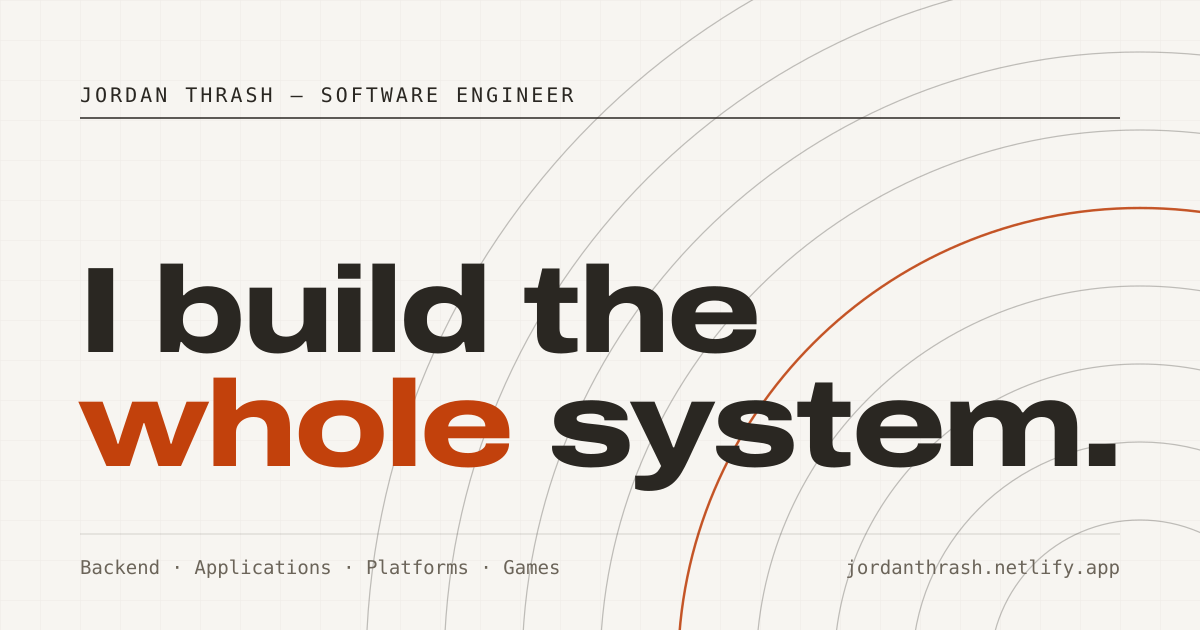
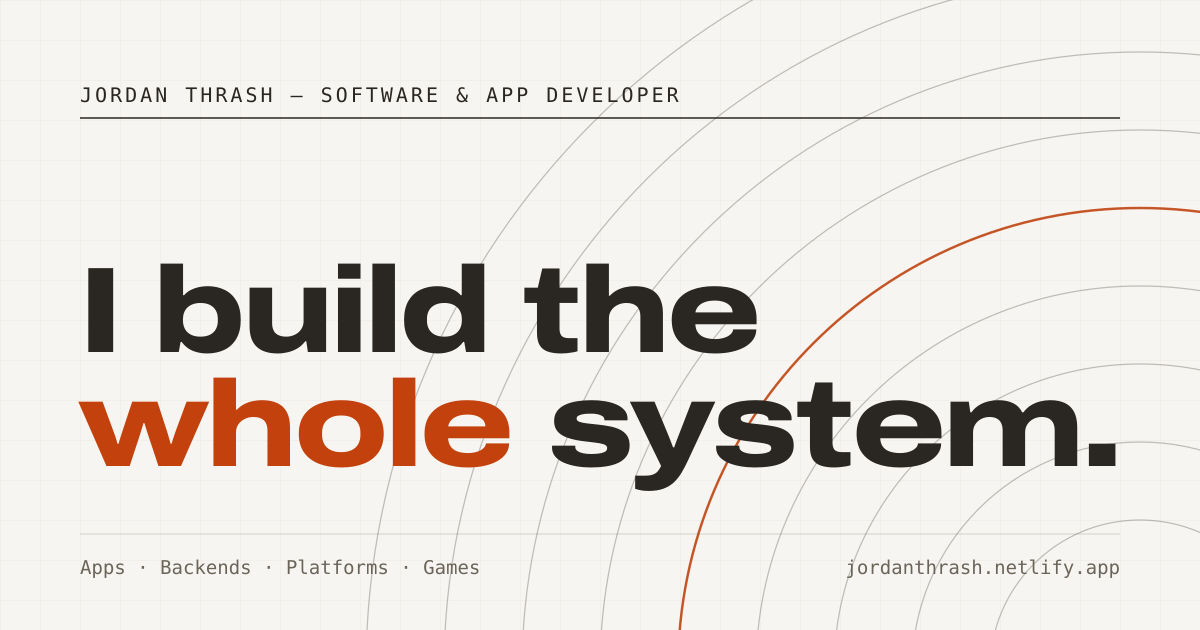
Lead with what gets built, not with a job title
Correcting an overcorrection: swapping "Game Developer" for "Software
Engineer" just traded one narrow frame for another, and the copy had
drifted into reading like a backend engineer's CV.

- Hero lede now opens "Apps, backends, platforms, games" instead of with
  a job label, and no longer treats games as something that had to be
  explained away.
- About rewritten around range as the point: four kinds of work presented
  as facets of the same practice, with games framed as where the systems
  instincts got sharp rather than as a phase.
- Skills reordered and regrouped — Applications / Services & data /
  Platform & tooling / Games & real-time — so nothing leads.
- Role is "Software & App Developer"; section 02 is "What I build".
- Contact pitch broadened past engineering work.
- README documents the two rules that keep this stable: do not lead with
  a label, do not apologise for the games.

Also fixed: the `&` in the new role broke the OG card's raw SVG. Text
nodes are escaped now, so copy containing &, < or " no longer fails the
rasteriser.

Claude-Session: https://claude.ai/code/session_01FqVhWkxSWnaqhkKCUJZE53

Changed region(s): [[0.0617, 0.8746, 0.4008, 0.9349], [0.37, 0.1206, 0.555, 0.181], [0.4317, 0.8746, 0.4625, 0.9349]]

diff --git a/src/data/site.ts b/src/data/site.ts
@@ -10,14 +10,18 @@
 
 export const site = {
   name: 'Jordan Thrash',
-  /** Shown beside the name in the header and used in structured data. */
-  role: 'Software Engineer',
+  /**
+   * Shown beside the name in the header and used in structured data. Kept
+   * deliberately broad — the work spans apps, services, platforms and games,
+   * and a narrower title undersells it in both directions.
+   */
+  role: 'Software & App Developer',
   /** @verify — city shown in the footer. Set to null to hide it. */
   location: 'United States',
   url: 'https://jordanthrash.netlify.app',
 
   description:
-    'Software engineer and app developer. Backends, applications, platforms and games — built end to end.',
+    'I build apps, backends, platforms and games — end to end. Software and app developer.',
 } as const;
 
 /**
@@ -28,8 +32,8 @@ export const site = {
 export const hero = {
   headline: ['I build the', '<em>whole</em> system.'],
   /** Running metadata in the masthead rule. Keep it terse and factual. */
-  spec: 'Backend · Applications · Platforms · Games',
-  lede: 'Software engineer and app developer. I build backends, applications and the infrastructure underneath them — and I got here through game development, which is still where much of the index below comes from.',
+  spec: 'Apps · Backends · Platforms · Games',
+  lede: 'Apps, backends, platforms, games. Some of it professionally, some of it because I wanted the thing to exist — and in every case I would rather own the whole system than one layer of it.',
 } as const;
 
 /**
@@ -38,9 +42,9 @@ export const hero = {
  */
 export const about = {
   paragraphs: [
-    'I build software end to end — the services, the data models, the interface on top and the infrastructure holding it up. What I care about is whether a system stays correct and stays fast once real usage arrives, which is usually decided long before anyone sees a screen.',
-    'Professionally that means backend engineering: APIs, data models, and the unglamorous parts that decide whether a product feels solid or feels broken. Alongside that I design and ship applications on my own, where I own the whole stack rather than a slice of it — which is the part that keeps me honest about what shipping actually costs.',
-    'I started in game development, and it is still the fastest way I know to learn a system properly. A game leaves nowhere to hide: the physics either resolves, the netcode either stays in sync, the generator either produces something worth playing. Most of the index below came out of that, and the habits transfer directly to everything else I build.',
+    'I build things end to end. Whatever the project needs — the service, the data model, the interface, the infrastructure underneath — I would rather own the whole shape of it than one layer. That holds whether it is a production backend, an app someone uses every day, or a game I made because I wanted it to exist.',
+    'The range is wide on purpose. Services and the data behind them, applications people actually use, the deployment and tooling around both, and games where every system has to hold up in real time. Different constraints, same job each time: work out what the thing has to guarantee, then make it do that when real usage arrives.',
+    'Games are where a lot of this got sharp. They leave nowhere to hide — the physics resolves or it does not, the netcode stays in sync or it does not, the generator produces something worth playing or it does not. Most of the index below came out of that, and the same instincts carry straight into everything else I build.',
   ],
   /**
    * @verify — grouped so the section reads as capability areas rather than a
@@ -48,19 +52,19 @@ export const about = {
    */
   stack: [
     {
-      area: 'Backend',
-      items: ['Python', 'TypeScript / Node', 'PostgreSQL', 'REST & GraphQL APIs', 'Data pipelines'],
-    },
-    {
       area: 'Applications',
-      items: ['React', 'Astro', 'TypeScript', 'Responsive UI', 'Accessibility'],
+      items: ['TypeScript', 'React', 'Astro', 'Responsive UI', 'Accessibility'],
     },
     {
-      area: 'Platform',
+      area: 'Services & data',
+      items: ['Python', 'Node', 'PostgreSQL', 'REST & GraphQL APIs', 'Data pipelines'],
+    },
+    {
+      area: 'Platform & tooling',
       items: ['Docker', 'CI / CD', 'Cloud deployment', 'Observability', 'Performance'],
     },
     {
-      area: 'Games',
+      area: 'Games & real-time',
       items: [
         'Unity',
         'C#',
@@ -88,12 +92,12 @@ export const experience = [
     tags: ['Python', 'PostgreSQL', 'APIs'],
   },
   {
-    role: 'Independent Software Engineer',
+    role: 'Independent Developer',
     company: 'Client & product work',
     start: '2021',
     end: null,
     summary:
-      'Applications, sites and backends built end to end for small businesses and my own products.',
+      'Apps, sites and the backends behind them, built end to end for small businesses and for my own products.',
     tags: ['TypeScript', 'React', 'Python', 'Netlify'],
   },
   {
@@ -123,7 +127,7 @@ export const education = [
 export const contact = {
   email: 'thrashstores@gmail.com',
   /** Headline for the contact section. */
-  pitch: 'Open to engineering work, product builds and interesting systems problems.',
+  pitch: 'Open to product work, contract builds, and anything with an interesting system in it.',
   links: [
     {
       label: 'GitHub',

diff --git a/README.md b/README.md
@@ -66,15 +66,21 @@ and **Splittle** (from your public write-up).
 
 ### On positioning
 
-The site frames you as a software engineer and app developer whose range covers
-backends, applications, platforms and games — not as a game developer. The old
-Weebly site said "Game Developer" throughout; that framing is gone deliberately.
+The copy leads with **what gets built**, not with a job title. Apps, backends,
+platforms and games are named as four facets of the same practice, in that
+order, and no one of them is the identity. That is deliberate in both
+directions — the old Weebly site said "Game Developer" throughout, and framing
+it purely as backend engineering undersells the range just as badly.
 
-The index is still mostly games, because that is what has shipped so far. The
-copy handles this honestly rather than pretending otherwise: the hero and the
-About section present game development as where the systems habits came from,
-not as the ceiling. As you add backend and application projects the balance
-corrects itself and none of that copy needs to change.
+Two rules if you rewrite any of this:
+
+- **Do not lead with a label.** "Apps, backends, platforms, games" beats
+  "Software engineer who…". The title in `site.role` exists for the header and
+  structured data; the body copy should not repeat it.
+- **Do not apologise for the games.** They are presented as where the systems
+  instincts were sharpened, not as a phase that got outgrown. The index is
+  mostly games today because that is what has shipped; as apps and services
+  land, the balance corrects itself and none of the copy needs to change.
 
 ---
 
